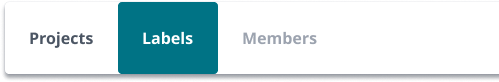
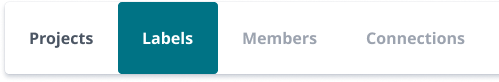
update onboarding modal with new subnav and connections

Changed region(s): [[0.0, 0.9024, 1.0, 0.9512], [0.7214, 0.3902, 0.9319, 0.5366]]

diff --git a/templates/snippets/onboarding.html b/templates/snippets/onboarding.html
@@ -32,7 +32,7 @@
                 <div class="flex-this w-100 fit-height">
                     <div class="w-50 onboard-content-margin">
                         <div><img class="logo-sm-onboard" src="{% static 'images/logos/sm-logo-registry.png' %}"></div>
-                        <div><h1 class="darkteal-text">1/6 Your profile</h1></div>
+                        <div><h1 class="darkteal-text">1/7 Your profile</h1></div>
                         <div class="w-90">
                             <p>
                                 The profile enables you to join multiple accounts on the hub. You can create accounts on behalf of your Indigenous community, institution or as a researcher.
@@ -57,7 +57,7 @@
                 <div class="flex-this w-100 fit-height">
                     <div class="w-50 onboard-content-margin">
                         <div><img class="logo-sm-onboard" src="{% static 'images/logos/sm-logo-registry.png' %}"></div>
-                        <div><h1 class="darkteal-text">2/6 Accounts</h1></div>
+                        <div><h1 class="darkteal-text">2/7 Accounts</h1></div>
                         <div class="w-90">
                             <p>
                                 There are three account types: Indigenous communities, institutions, and researchers.
@@ -83,7 +83,7 @@
                 <div class="flex-this w-100 fit-height">
                     <div class="w-50 onboard-content-margin">
                         <div><img class="logo-sm-onboard" src="{% static 'images/logos/sm-logo-registry.png' %}"></div>
-                        <div><h1 class="darkteal-text">3/6 Local Contexts Projects</h1></div>
+                        <div><h1 class="darkteal-text">3/7 Local Contexts Projects</h1></div>
                         <div class="w-90">
                             <p>
                                 Local Contexts Projects assist in documenting cultural material on the hub. Institutions and researchers can apply Notices to it, and Indigenous communities can apply their customized Labels. 
@@ -108,7 +108,7 @@
                 <div class="flex-this w-100 fit-height">
                     <div class="w-50 onboard-content-margin">
                         <div><img class="logo-sm-onboard" src="{% static 'images/logos/sm-logo-registry.png' %}"></div>
-                        <div><h1 class="darkteal-text">4/6 Labels</h1></div>
+                        <div><h1 class="darkteal-text">4/7 Labels</h1></div>
                         <div class="w-90">
                             <p>
                                 The Label descriptions can be customized by Indigenous communities to ensure that their local and traditional protocols are embedded in those Labels.
@@ -135,7 +135,7 @@
                 <div class="flex-this w-100 fit-height">
                     <div class="w-50 onboard-content-margin">
                         <div><img class="logo-sm-onboard" src="{% static 'images/logos/sm-logo-registry.png' %}"></div>
-                        <div><h1 class="darkteal-text">5/6 Notices</h1></div>
+                        <div><h1 class="darkteal-text">5/7 Notices</h1></div>
                         <div class="w-90">
                             <p>
                                 Institutions and researchers can create Projects for cultural materials they protect and apply Notices to them. 
@@ -161,7 +161,7 @@
                 <div class="flex-this w-100 fit-height">
                     <div class="w-50 onboard-content-margin">
                         <div><img class="logo-sm-onboard" src="{% static 'images/logos/sm-logo-registry.png' %}"></div>
-                        <div><h1 class="darkteal-text">6/6 Members</h1></div>
+                        <div><h1 class="darkteal-text">6/7 Members</h1></div>
                         <div class="w-90">
                             <p>
                                 Community and Institutional accounts can have as many members as necessary. There are three types of roles within the hub that allow different activites and permissions they are:
@@ -185,7 +185,32 @@
                 </div>
             </div>
 
-            <!-- Card 8: Finish -->
+            <!-- Card 8: Connections -->
+            <div class="onboard-step">
+                <div class="flex-this w-100 fit-height">
+                    <div class="w-50 onboard-content-margin">
+                        <div><img class="logo-sm-onboard" src="{% static 'images/logos/sm-logo-registry.png' %}"></div>
+                        <div><h1 class="darkteal-text">7/7 Connections</h1></div>
+                        <div class="w-90">
+                            <p>
+                                Connections will display the Institutions, Communities and Researchers that have contributed to the same projects your account has been involved with. 
+                                <br><br>
+                                This is where you can access their contact information and relevant projects that involved them. 
+                            </p>
+                       </div>
+                        <div><button class="btn-next primary-btn action-btn">Next <i class="fa fa-long-arrow-right"></i></button></div>
+                    </div>
+                    <div class="w-50 onboard-blue-bg modal-right-half">
+                        <div class="onboard-content-margin flex-this column">
+                            <div class="right-text margin-bottom-16"><button class="close-onboarding-btn">Close X</button></div>
+                            <div class="center-text margin-top-16"><img src="{% static 'images/onboarding/connections.png' %}"></div>
+                            <div class="section-bar-container"><img src="{% static 'images/onboarding/section-bar-connections.png' %}"></div>
+                        </div>
+                    </div>                     
+                </div>
+            </div>
+
+            <!-- Card 9: Finish -->
             <div class="onboard-step">
                 <div class="flex-this w-100 fit-height">
                     <div class="w-50 onboard-content-margin">
